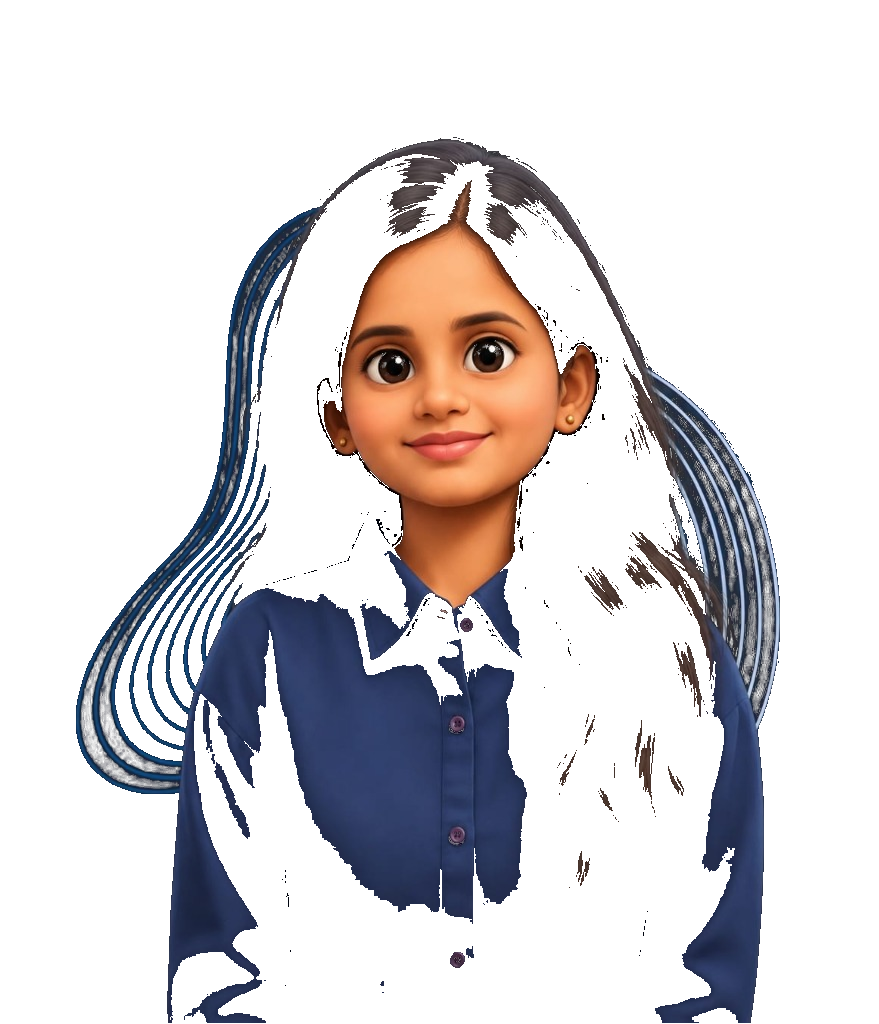
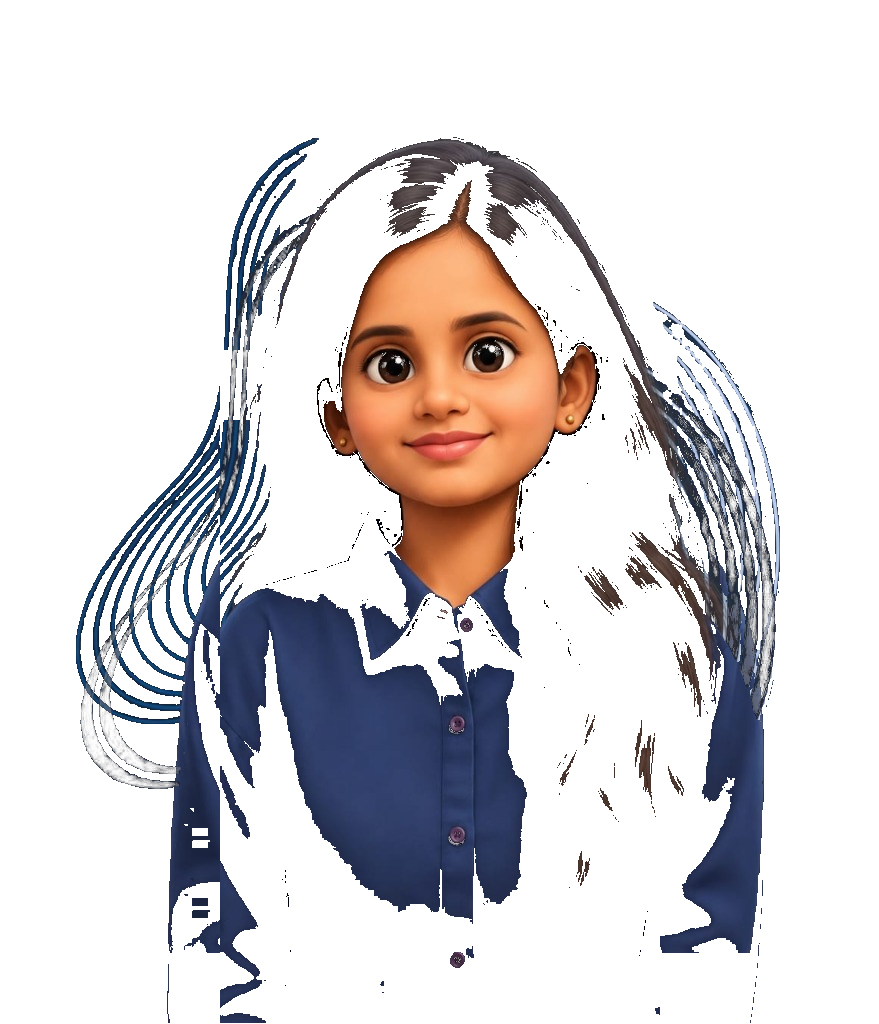
feat: implement SkillsSection component with responsive grid layout and animated assets

Changed region(s): [[0.0614, 0.125, 0.3686, 1.0], [0.7372, 0.2812, 0.8908, 1.0]]

diff --git a/src/components/SkillsSection.module.css b/src/components/SkillsSection.module.css
@@ -24,11 +24,8 @@
   width: 100%;
   max-width: 480px;
   aspect-ratio: 1.25 / 1;
-  border-radius: 28px;
-  overflow: hidden;
-  border: 1px solid rgba(0, 240, 255, 0.15);
-  background: rgba(6, 20, 40, 0.25);
-  box-shadow: 0 0 35px rgba(0, 100, 255, 0.08);
+  background: transparent;
+  margin-top: 4.8rem;
 }
 
 .glowOverlay {
@@ -140,6 +137,7 @@
   
   .handContainer {
     max-width: 420px;
+    margin-top: 0;
   }
   
   .heading {
